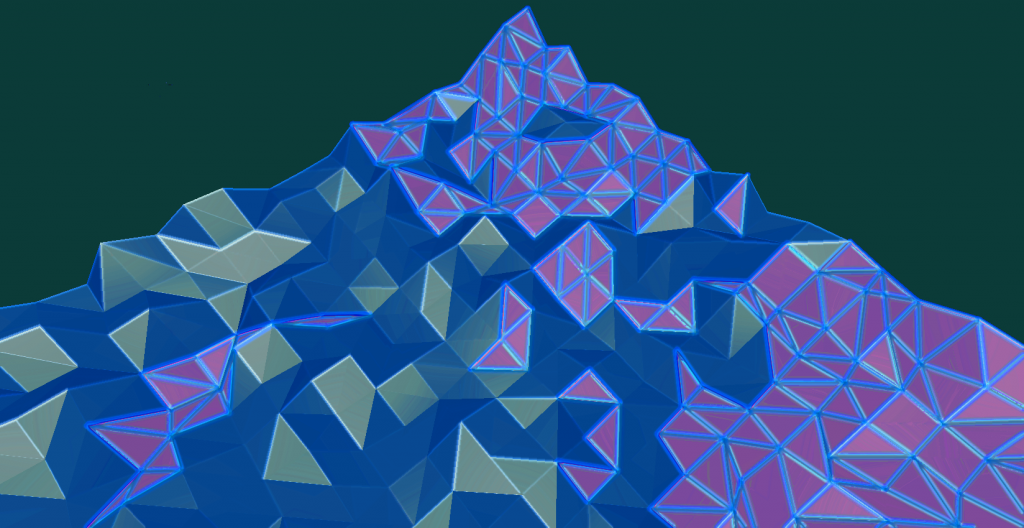
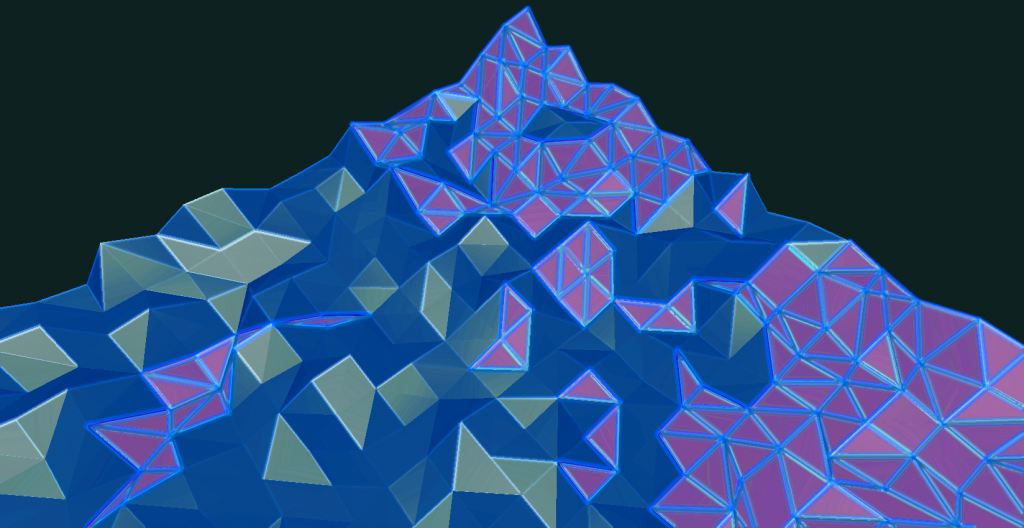
theme edit 09-20-17 9:10pm

diff --git a/wp-content/themes/twentyfifteen-child/style.css b/wp-content/themes/twentyfifteen-child/style.css
@@ -1,0 +1,125 @@
+/*
+ Theme Name:   Twenty Fifteen Theme Child
+ Theme URI:    http://example.com/twentyfifteen-child/
+ Description:  Twenty Fifteen Child Theme
+ Author:       dstep
+ Author URI:   http://example.com
+ Template:     twentyfifteen
+ Version:      1.0.0
+ Tags:         light, dark, two-columns, right-sidebar, responsive-layout, accessibility-ready
+ Text Domain:  twentyfifteen-child
+*/
+
+@import url("../twentyfifteen/style.css");
+
+.site-info {
+	background-color: #0b3b38;
+}
+
+.site-footer {
+	background-color: #0b3b38;
+}
+
+.entry-footer {
+	background-color: #0b3b38;
+}
+
+.entry-content {
+	background-color: rgba(20, 113, 111, 0);
+}
+
+.hentry {
+	background-color: rgba(20, 113, 111, 0.80);
+}
+
+.sidebar {
+	background-color: #14716f;
+}
+
+.site-header {
+	background-color: #14716f;
+}
+
+body:before {
+	background-color: #14716f;
+}
+
+.site-main {
+	background-color: #0d2120;
+	background: url(http://localhost/TBGHK189/wp-content/uploads/2017/09/icedDTM-twitch-e1505961458413.png);
+	background-position: bottom;
+	background-repeat: no-repeat;
+	background-attachment: fixed;
+}
+
+.site {
+	background-color: #0d2120;
+}
+
+body {
+	background-color: #0d2120;
+}
+
+a {
+	color: #0b3b38;
+}
+
+a:hover {
+	color: #28d4c9;
+}
+
+.site-description {
+	color: #0b3b38;
+}
+
+.entry-title {
+	color: #0b3b38;
+}
+
+.entry-footer a {
+	color: #14716f;
+}
+
+.entry-footer {
+	color: #14716f;
+}
+
+.entry-footer a:hover {
+	color: #28d4c9;
+}
+
+.site-info a {
+	color: #14716f;
+}
+
+.site-info {
+	color: #14716f;
+}
+
+.site-info a:hover {
+	color: #28d4c9;
+}
+
+.entry-content {
+	color: #0b3b38;
+}
+
+.entry-content a {
+	color: #0b3b38;
+}
+
+.entry-content a:hover {
+	color: #28d4c9;
+}
+
+body:before {
+	color: #0b3b38;
+}
+
+body:before a {
+	color: #0b3b38;
+}
+
+body:before a:hover {
+	color: #28d4c9;
+}
